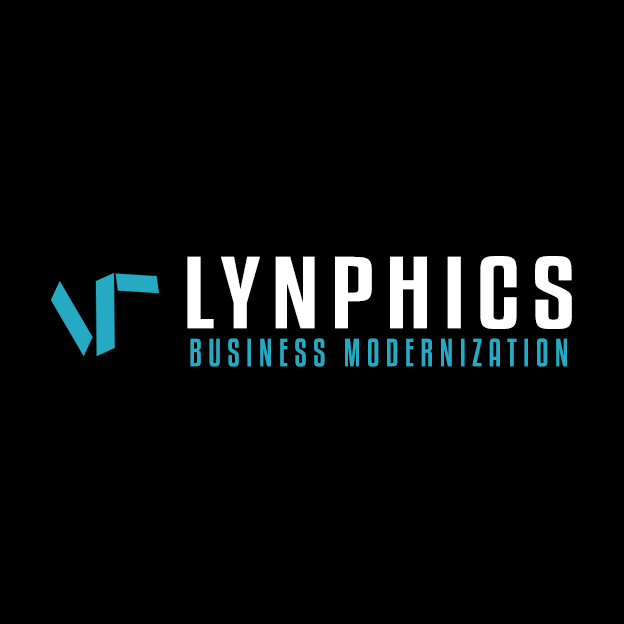
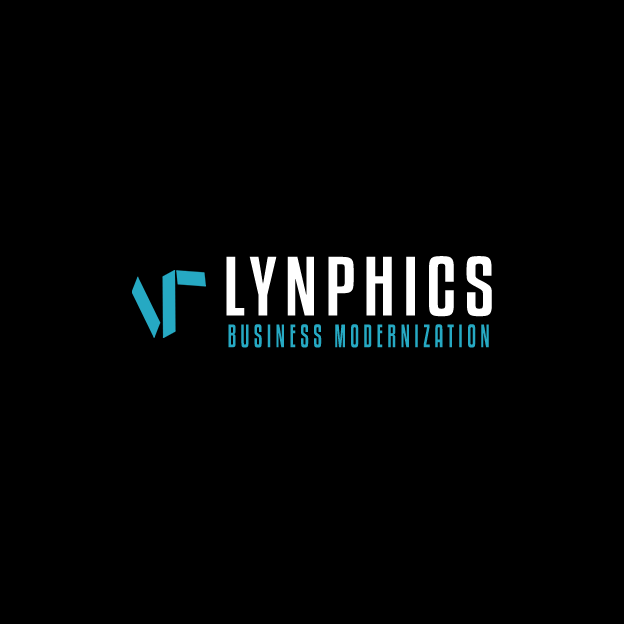
Updates

Changed region(s): [[0.0609, 0.3958, 0.9439, 0.609]]

diff --git a/src/components/layout/MobileNav.tsx b/src/components/layout/MobileNav.tsx
@@ -1,6 +1,7 @@
 import { useState } from "react";
 import { NavLink } from "react-router-dom";
 import { Menu, X } from "lucide-react";
+import ConsultationButton from "./ConsultationButton";
 
 const links = [
   { label: "Home", path: "/" },
@@ -17,6 +18,7 @@ export default function MobileNav() {
       <button
         onClick={() => setOpen(!open)}
         className="text-white"
+        aria-label={open ? "Close menu" : "Open menu"}
       >
         {open ? <X size={24} /> : <Menu size={24} />}
       </button>
@@ -28,13 +30,14 @@ export default function MobileNav() {
             left-0
             right-0
             top-20
-            border-b
-            border-zinc-900
+            h-[calc(100vh-5rem)]
             bg-black/95
             backdrop-blur-xl
+            border-b
+            border-zinc-900
           "
         >
-          <nav className="flex flex-col p-8">
+          <nav className="flex h-full flex-col p-8">
             {links.map((link) => (
               <NavLink
                 key={link.label}
@@ -52,6 +55,11 @@ export default function MobileNav() {
                 {link.label}
               </NavLink>
             ))}
+
+            {/* Consultation CTA */}
+            <div className="mt-auto pt-6 border-t border-zinc-800">
+              <ConsultationButton />
+            </div>
           </nav>
         </div>
       )}

diff --git a/index.html b/index.html
@@ -53,6 +53,11 @@
     href="/og-image.png"
   />
 
+  <link
+    rel="apple-touch-icon"
+    href="/apple-touch-icon.png"
+  />
+
   <meta property="og:type" content="website" />
   <meta property="og:title" content="LYNPHICS | Business Modernization Company" />
   <meta property="og:description" content="Helping businesses modernize their presentation, branding, digital presence and operational systems." />

diff --git a/src/components/layout/Navbar.tsx b/src/components/layout/Navbar.tsx
@@ -2,8 +2,7 @@ import { Link } from "react-router-dom";
 
 import Container from "../shared/Container";
 import DesktopNav from "./DesktopNav";
-import MobileNav from "./MobileNav";
-import ConsultationButton from "./ConsultationButton";
+import MobileNav from "./MobileNav"; 
 import useNavbarScroll from "../../hooks/useNavbarScroll";
 
 import logo from "../../assets/logo/lynphics-logo.png";
@@ -31,7 +30,6 @@ export default function Navbar() {
 
           <div className="flex items-center gap-8">
             <DesktopNav />
-            <ConsultationButton />
             <MobileNav />
           </div>
         </div>